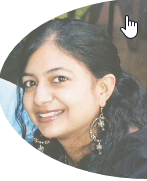
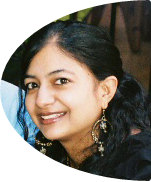
margin in percents, fixing news img

diff --git a/css/main.css b/css/main.css
@@ -170,8 +170,8 @@ img {
 @media only screen and (min-width: 768px) {
   .navbar-custom .avatar-container {
     width: 100px;
-    margin-top: -10px;
-    margin-left: -500px; 
+    margin-top: 1%;
+    margin-left: 40%; 
   }
   
   .navbar-custom .avatar-container  .avatar-img-border {
